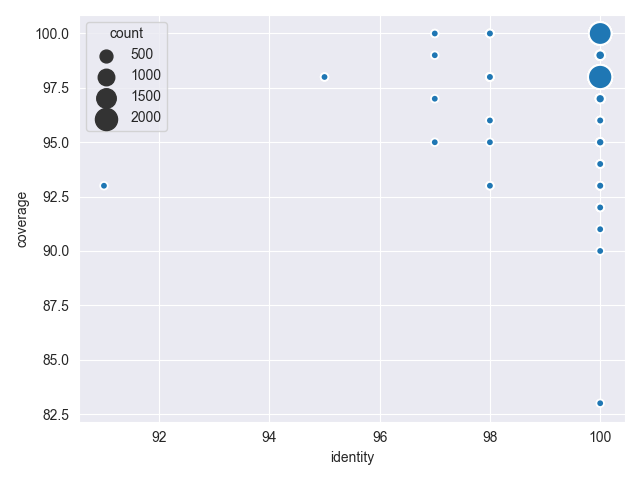
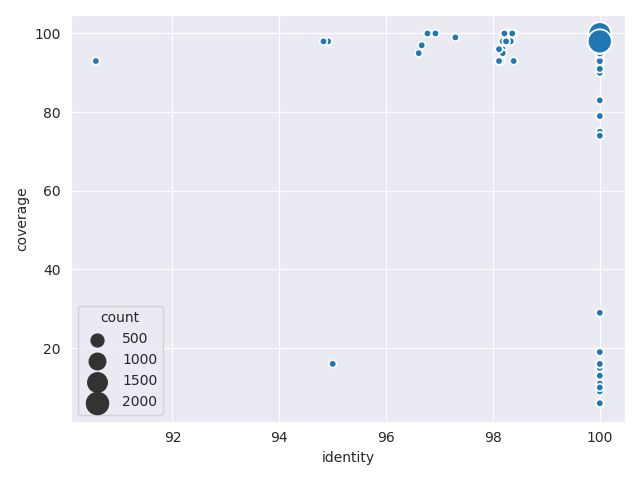
RNAfold plots

diff --git a/benchmarking/RNAfold/visualize.py b/benchmarking/RNAfold/visualize.py
@@ -14,6 +14,10 @@ mirgene_path = '/home/felixl/PycharmProjects/general/benchmarking/RNAfold/data/m
 filtered = False
 style = 'whitegrid'
 
+with open('/home/felixl/project/ncOrtho/benchmark/vertebrate_list.txt', 'r') as vh:
+    vertebrates = [spec.strip().replace(' ', '_') for spec in vh]
+print(vertebrates)
+
 
 def load_df(path, name):
     with open(path, 'r') as fh:
@@ -26,13 +30,15 @@ def load_df(path, name):
         df['species'] = df['species'].str.replace('Sarcophilus_harrissii', 'Sarcophilus_harrisii')
         df['species'] = df['species'].str.replace('Canis_familiaris', 'Canis_lupus_familiaris')
         df['species'] = df['species'].str.replace('Strongylocentrotus_purpuratus_', 'Strongylocentrotus_purpuratus')
+        # filter for vertebrates only
+        # df = df[df['species'].isin(vertebrates)]
         return df
 
 
 def make_distplot(df, sty, fil):
     sns.set_style(sty)
     plt.subplot(211)
-    # sns.histplot(data=fam_set, x='length', hue='type', element='poly', fill=False)
+    # sns.histplot(data=fam_set, x='length', hue='type', discrete=True, multiple='stack')#, element='step', fill=False)
     sns.kdeplot(data=df, x='length', hue='type', hue_order=['miRGeneDB', 'ncOrtho', 'mirbh_length_cutoff', 'mirbh'])
     plt.tight_layout()
     plt.xlabel('Length [nt]')
@@ -47,7 +53,7 @@ def make_distplot(df, sty, fil):
 
     # plot score distribution
     plt.subplot(212)
-    # sns.histplot(data=fam_set, x='score', hue='type', element='poly', fill=False)
+    # sns.histplot(data=fam_set, x='score', hue='type')#, element='poly', fill=False)
     sns.kdeplot(data=df, x='score', hue='type', hue_order=['miRGeneDB', 'ncOrtho', 'mirbh_length_cutoff', 'mirbh'])
 
     plt.xlabel('RNAfold minimum free energy')
@@ -81,14 +87,15 @@ mirgene_famset = mirgene[mirgene['mirna_fam'].isin(mirbh['mirna_fam'].unique())]
 
 # concatenate dataframes
 ges = pd.concat([mirgene, ncortho, mirbh, filtered])
+# ges = pd.concat([mirgene, ncortho])
 # filter for families for which orthologs  have been detected by mirbh
 fam_set = ges[ges['mirna_fam'].isin(mirbh['mirna_fam'].unique())]
 
 # plot distribution plot
-make_distplot(fam_set, style, fil=False)
+make_distplot(ges, style, fil=False)
 
 # calculate length cutoff
-length = mirgene_famset['length'].to_numpy()
+length = mirgene['length'].to_numpy()
 m_threesig = length.mean() - 3 * length.std()
 p_threesig = length.mean() + 3 * length.std()
 print(f'3sig: {m_threesig} - {p_threesig}')
@@ -97,7 +104,9 @@ print(f'3sig: {m_threesig} - {p_threesig}')
 # determine number of sequences above 3sig level for each dataset
 large_mirgene = mirgene['length'][mirgene['length'] > p_threesig].size
 large_mirbh = mirbh['length'][mirbh['length'] > p_threesig].size
-large_ncortho = ncortho['length'][ncortho['length'] > p_threesig].size
+# large_ncortho = ncortho['length'][ncortho['length'] > p_threesig].size
+large_ncortho = ncortho[ncortho['length'] > 80]
+# large_ncortho = ncortho.sort_values(by='length', ascending=False).head(30)
 print(large_mirgene)
 print(large_ncortho)
 print(large_mirbh)
@@ -152,8 +161,13 @@ vis_df = pd.DataFrame.from_dict(c_vis)
 plt.figure()
 sns.set_style(style)
 count_sorted = vis_df.copy().sort_values(by=['count'], ascending=False)
-sns.barplot(data=count_sorted, y='species', x='count', hue='source', orient='h')
+sns.barplot(data=count_sorted, y='species', x='count', hue='source', orient='h', hue_order=['mirgenedb', 'ncortho', 'mirbh_length_cutoff'])
 plt.tight_layout()
+
+# print(count_sorted.head())
+# nc_speccount = count_sorted[count_sorted["source"] == "ncortho"]["count"]
+# print(nc_speccount)
+# print(f'ncortho: {count_sorted[count_sorted["source"] == "ncortho"]["count"]}')
 
 plt.figure()
 sns.set_style(style)
@@ -162,5 +176,13 @@ small_count = vis_df.copy()[ever_second].sort_values(by=['count'], ascending=Fal
 sns.barplot(data=small_count, y='species', x='count', hue='source', orient='h', hue_order=['mirgenedb', 'ncortho', 'mirbh_length_cutoff'])
 # plt.xticks(rotation=30, ha='right')
 plt.tight_layout()
+
+# plt.figure()
+# sns.set_style(style)
+# ever_second = [True, True, False, False] * int((len(vis_df) / 2) / 2)
+# small_count = vis_df.copy()[ever_second].sort_values(by=['count'], ascending=False)
+# sns.barplot(data=small_count, y='species', x='count', hue='source', orient='h', hue_order=['mirgenedb', 'ncortho'])
+# # plt.xticks(rotation=30, ha='right')
+# plt.tight_layout()
 
 plt.show()

diff --git a/benchmarking/RNAfold/find_FN.py b/benchmarking/RNAfold/find_FN.py
@@ -1,0 +1,77 @@
+import json
+import pandas as pd
+import matplotlib.pyplot as plt
+import seaborn as sns
+import numpy as np
+from collections import Counter
+
+nc_path = '/home/felixl/PycharmProjects/general/benchmarking/RNAfold/data/ncortho.json'
+mirgene_path = '/home/felixl/PycharmProjects/general/benchmarking/RNAfold/data/mirgenedb_rnafold.json'
+with open('/home/felixl/project/ncOrtho/benchmark/vertebrate_list.txt', 'r') as vh:
+    vertebrates = [spec.strip().replace(' ', '_') for spec in vh]
+
+
+def load_df(path, name):
+    with open(path, 'r') as fh:
+        df_dict = json.load(fh)
+        df = pd.DataFrame.from_dict(df_dict)
+        df['score'] = pd.to_numeric(df['score'])
+        df['length'] = df['seq'].apply(len)
+        df['type'] = name
+        df['species'] = df['species'].str.replace('>', '')
+        df['species'] = df['species'].str.replace('Sarcophilus_harrissii', 'Sarcophilus_harrisii')
+        df['species'] = df['species'].str.replace('Canis_familiaris', 'Canis_lupus_familiaris')
+        df['species'] = df['species'].str.replace('Strongylocentrotus_purpuratus_', 'Strongylocentrotus_purpuratus')
+        # filter for vertebrates only
+        # df = df[df['species'].isin(vertebrates)]
+        return df
+
+
+ncortho = load_df(nc_path, 'ncOrtho')
+ncortho.pop('mirna_coorth')
+mirgene = load_df(mirgene_path, 'miRGeneDB')
+
+
+tmp = pd.DataFrame()
+nc_df = pd.DataFrame()
+a = np.char.array(ncortho['species'].values)
+b = np.char.array(ncortho['mirna_fam'].values)
+tmp['res'] = (a + b'|' + b).astype(str)
+nc_df['res'] = tmp['res'].unique()
+nc_df['in'] = True
+nc_df = nc_df.set_index('res')
+
+tmp = pd.DataFrame()
+mir_df = pd.DataFrame()
+a = np.char.array(mirgene['species'].values)
+b = np.char.array(mirgene['mirna_fam'].values)
+tmp['res'] = (a + b'|' + b).astype(str)
+mir_df['res'] = tmp['res'].unique()
+mir_df['in'] = True
+# mir_df.set_index('res')
+
+
+comp_df = nc_df.join(mir_df.set_index('res'), how='outer', lsuffix='_ncortho', rsuffix='_mirgenedb')
+print(comp_df)
+
+FN = comp_df[comp_df['in_ncortho'].isnull()]
+FN_count = Counter([element.split('|')[0] for element in FN.index])
+FN_df = pd.DataFrame.from_dict(FN_count, orient='index', columns=['count'])
+FN_df = FN_df.sort_values(by='count')
+# print(FN_df)
+
+pot_FP = comp_df[comp_df['in_mirgenedb'].isnull()]
+print(pot_FP)
+FP_dict = {'species': [], 'mirfam': []}
+for ind in pot_FP.index:
+    species, mirfam = ind.split('|')
+    FP_dict['species'].append(species)
+    FP_dict['mirfam'].append(mirfam)
+# FP_count = Counter([element.split('|')[0] for element in pot_FP.index])
+print(FP_dict)
+FP_df = pd.DataFrame.from_dict(FP_dict)
+# FP_df = FP_df.sort_values(by='count', ascending=False)
+print(FP_df)
+
+fp_out = '/home/felixl/PycharmProjects/general/benchmarking/positive_set/data/fams_found_but_not_in_mirgenedb.txt'
+FP_df.to_csv(fp_out, sep='\t', index=False)

diff --git a/benchmarking/positive_set/scripts/analyze_blast_results_in_mirgenedb.py b/benchmarking/positive_set/scripts/analyze_blast_results_in_mirgenedb.py
@@ -4,23 +4,57 @@ import seaborn as sns
 import matplotlib.pyplot as plt
 import numpy as np
 
-inpath = r'C:\Users\felix\PycharmProjects\general\benchmarking\positive_set\data\blast_results_in_mirgenedb.json'
+# inpath = r'C:\Users\felix\PycharmProjects\general\benchmarking\positive_set\data\blast_results_in_mirgenedb.json'
+inpath = '/home/felixl/project/ncOrtho/benchmark/filtered_mirbh/analysis/blast_results_in_mirgenedb.json'
+outf = '/home/felixl/PycharmProjects/general/benchmarking/positive_set/data/ncortho_res_below_90i_80c.txt'
+pot_FP = '/home/felixl/PycharmProjects/general/benchmarking/positive_set/data/fams_found_but_not_in_mirgenedb.txt'
 
 with open(inpath, 'r') as fh:
     df_dict = json.load(fh)
 
+# load potential FPs, miRNA families that were detected in species for which no mirgenedb entry exists
+FP = pd.read_csv(pot_FP, sep='\t')
+a = np.char.array(FP['species'].values)
+b = np.char.array(FP['mirfam'].values)
+FP['specfam'] = (a + b'|' + b).astype(str)
+print(FP)
+
+# load BLAST results
 df = pd.DataFrame.from_dict(df_dict)
-df['coverage'] = df['coverage'].apply(round)
-df['identity'] = df['identity'].apply(round)
-a = np.char.array(df['identity'].values)
-b = np.char.array(df['coverage'].values)
+mirnas = list(df['miRNA'])
+mirfam = ['-'.join(mirna.split('-')[1:3]) for mirna in mirnas]
+df['mirfam'] = mirfam
+a = np.char.array(df['species'].values)
+b = np.char.array(df['mirfam'].values)
+df['specfam'] = (a + b'|' + b).astype(str)
+# print(df)
 
-df['idcov'] = (a + b'_' + b).astype(str)
-df['count'] = df.groupby('idcov')['idcov'].transform('count')
-# df['idcov'] = df.identity.map(str) + '_' + df.coverage
-print(df)
+# find potential FPs in blast results
+# bl_fp = FP.join(df.set_index('specfam'), on='specfam', how='outer', lsuffix='_fp', rsuffix='_blast')
+bl_fp = df[df['specfam'] == 'Sarcophilus_harrisii|Mir-1287']
+# print(bl_fp)
+#
 
-sns.set_style('darkgrid')
-sns.scatterplot(data=df, x='identity', y='coverage', size='count', sizes=(30, 300))
-plt.tight_layout()
-plt.show()
+
+
+# apply threshold
+below_t = df[(df['identity'] < 90) | (df['coverage'] < 80)]
+print(below_t['mirfam'].unique())
+
+# below_t.to_csv(outf, sep='\t', index=False)
+
+
+
+
+
+
+# # plot
+# a = np.char.array(df['identity'].values)
+# b = np.char.array(df['coverage'].values)
+# df['idcov'] = (a + b'_' + b).astype(str)
+# df['count'] = df.groupby('idcov')['idcov'].transform('count')
+# sns.set_style('darkgrid')
+# sns.scatterplot(data=df, x='identity', y='coverage', size='count', sizes=(30, 300))
+# plt.tight_layout()
+# plt.show()
+

diff --git a/benchmarking/positive_set/scripts/blastsearch_results_in_mirgenedb.py b/benchmarking/positive_set/scripts/blastsearch_results_in_mirgenedb.py
@@ -14,7 +14,8 @@ outf = '/home/felixl/project/ncOrtho/benchmark/filtered_mirbh/analysis/blast_res
 
 def run_blast(mirf):
     mkblast_raw = 'makeblastdb -in {0} -out {1} -dbtype nucl'
-    blast_raw = 'blastn -task megablast -query {0} -db {1} -outfmt "6 std qcovhsp" -perc_identity 90 -qcov_hsp_perc 80'
+    # blast_raw = 'blastn -task megablast -query {0} -db {1} -outfmt "6 std qcovhsp" -perc_identity 90 -qcov_hsp_perc 80'
+    blast_raw = 'blastn -task megablast -query {0} -dust "no" -db {1} -outfmt "6 std qcovhsp"'
 
     blast_db_path = mirf.replace('.fa', '')
     species = blast_db_path.split(os.sep)[-1]
@@ -48,6 +49,7 @@ def run_blast(mirf):
 
 def check_best_hit(results, ic, cc):
     ortho_check = set()
+    reject_count = 0
     return_dict = {'species': [], 'miRNA': [], 'identity': [], 'coverage': [], 'confirmed': []}
     for line in results:
         if line:  # skip emtpy lines
@@ -76,6 +78,7 @@ def check_best_hit(results, ic, cc):
                         print(f'Result Chromosome: {data[0].split("|")[2]}')
                         print(f'Query miRNA: {data[1]}')
                         print('\n')
+                        reject_count += 1
 
                         return_dict['species'].append(species)
                         return_dict['miRNA'].append(res_mirid)
@@ -90,7 +93,8 @@ def check_best_hit(results, ic, cc):
                     return_dict['coverage'].append(coverage)
                     return_dict['identity'].append(ident)
                     return_dict['confirmed'].append(False)
-    return return_dict
+                    reject_count += 1
+    return return_dict, reject_count
 
             # print(line)
 
@@ -99,15 +103,18 @@ mirgene_files = glob.glob(f'{spec_dir}/*.fa')
 # df = pd.DataFrame()
 df_dict = {'species': [], 'miRNA': [], 'identity': [], 'coverage': [], 'confirmed': []}
 total_res = 0
+total_rejected = 0
 for mirg_f in mirgene_files:
     species = mirg_f.split(os.sep)[-1].replace('.fa', '')
     print(species)
     blast_res, count = run_blast(mirg_f)
     total_res += count
-    blast_dict = check_best_hit(blast_res, 95, 80)
+    blast_dict, rej_count = check_best_hit(blast_res, 90, 80)
+    total_rejected += rej_count
     for key in df_dict:
         df_dict[key].extend(blast_dict[key])
 print(total_res)
+print(total_rejected)
 
 with open(outf, 'w') as of:
     json.dump(df_dict, of)

diff --git a/mirgeneDB/find_assemblies.py b/mirgeneDB/find_assemblies.py
@@ -33,6 +33,7 @@ for key, value in remove_dict.items():
 
 specsfound = []
 seed_dict = {}
+vertebrates = []
 mammals = '/share/gluster/GeneSets/NCBI-Genomes/MammalianVertebratesRefSeq/raw_dir/active/{}/genomic.fna'
 mapfile = f'{out_dir}/mirgenedb_specs.txt'
 with open(mapfile, 'w') as of:
@@ -45,6 +46,7 @@ with open(mapfile, 'w') as of:
                 specname = data[1]
                 if specname in spec_list:
                     specsfound.append(specname)
+                    vertebrates.append(specname)
                     access = data[2]
                     specname = specname.replace(' ', '_')
                     seed_dict[specname] = mammals.format(access)
@@ -60,6 +62,7 @@ with open(mapfile, 'w') as of:
                 # print(specname)
                 if specname in spec_list:
                     specsfound.append(specname)
+                    vertebrates.append(specname)
                     access = data[2]
                     specname = specname.replace(' ', '_')
                     seed_dict[specname] = nonmams.format(access)
@@ -80,6 +83,11 @@ with open(mapfile, 'w') as of:
                     seed_dict[specname] = inverts.format(access)
                     taxid = data[0]
                     of.write(f'{taxid}\t{specname}\n')
+
+with open(f'{out_dir}/vertebrate_list.txt', 'w') as vh:
+    for spec in vertebrates:
+        vh.write(spec)
+        vh.write('\n')
 
 print(len(specsfound))
 print(len(spec_list))
